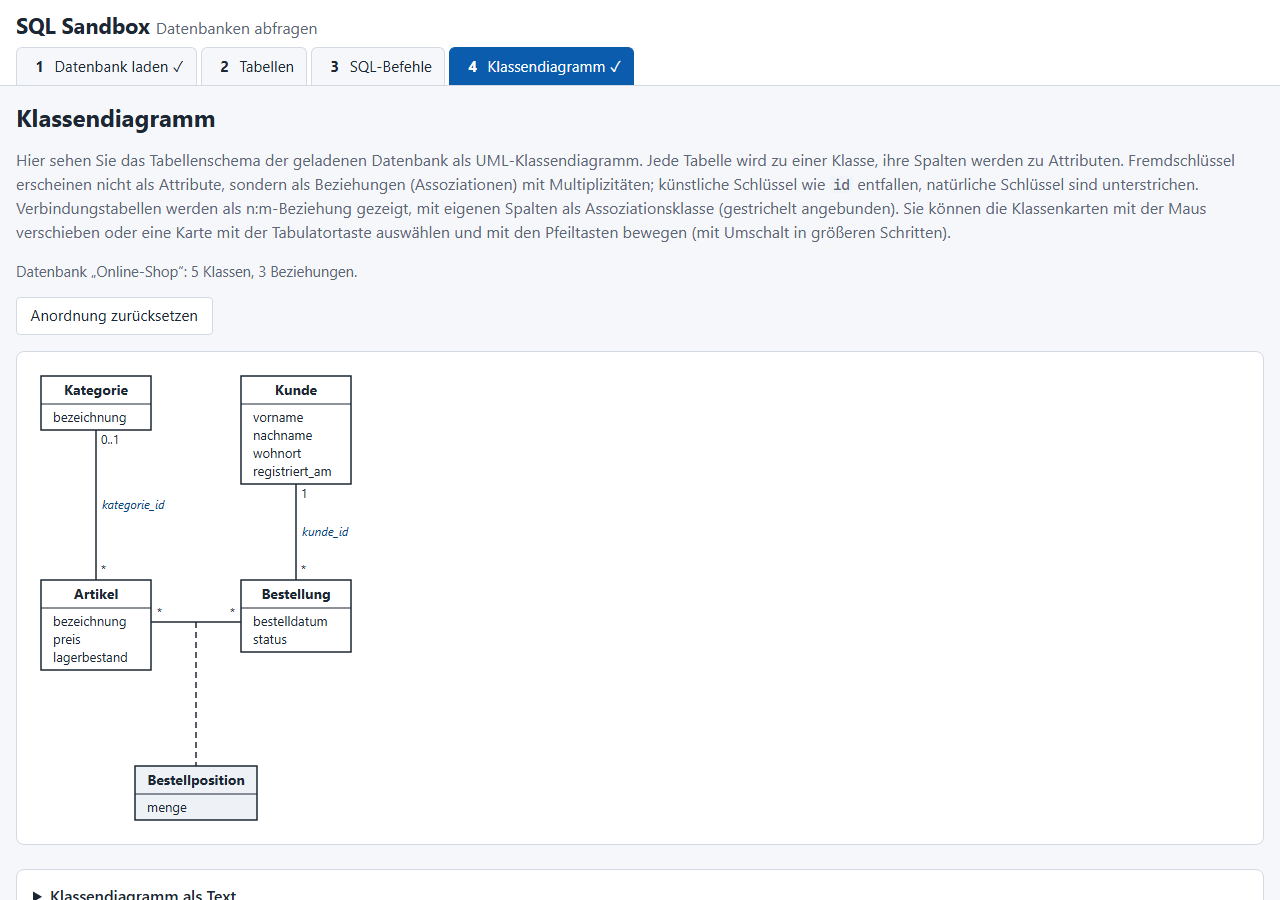
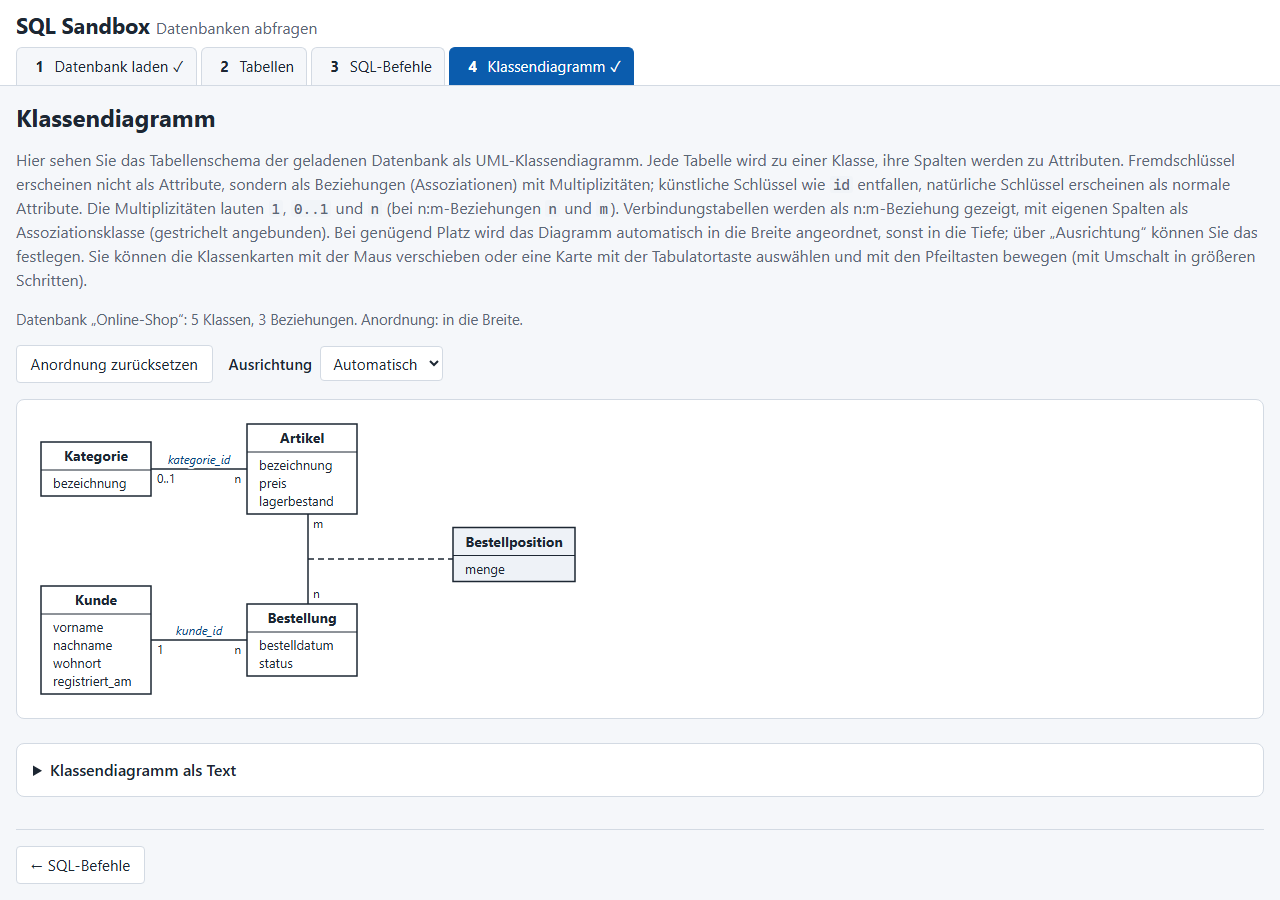
feat(sql-simulator): class diagram layout across, n/m multiplicities
- Keys are no longer marked or underlined; natural keys appear as
  plain attributes
- Multiplicities use n instead of *, n:m relations show n and m
- Layout can be laid out across (parents left) or in depth (parents
  top); automatic choice uses the wide layout when it fits, plus a
  selector (automatic / across / in depth)
- Across: channels sized for their labels, bends near the parent side
  so labels stay readable; multiplicities below horizontal lines

diff --git a/SQL simulator/src/js/pages/diagram.js b/SQL simulator/src/js/pages/diagram.js
@@ -8,6 +8,8 @@
  * Maus (bzw. per Touch) und mit den Pfeiltasten verschieben; die betroffenen Linien werden
  * dabei rechtwinklig neu geführt. „Anordnung zurücksetzen“ stellt das Ebenenlayout wieder her.
  * Beim Laden einer anderen Datenbank wird neu angeordnet.
+ * Ausrichtung: automatisch (in die Breite, wenn es in den Bereich passt, sonst in die Tiefe)
+ * oder fest gewählt.
  *
  * Sicherheit:
  *   Alle Namen werden über dom.svg/dom.el als Textknoten eingefügt (nach cleanCellText).
@@ -38,6 +40,8 @@
   let signature = '';
   /** Aktueller Zustand: Modell, Karten, Linien. */
   let view = null;
+  /** Gewählte Ausrichtung: 'auto', 'horizontal' (in die Breite) oder 'vertical' (in die Tiefe). */
+  let direction = 'auto';
 
   /** Kürzt lange Namen für die Anzeige. */
   function shorten(text) {
@@ -95,7 +99,7 @@
       const attrs = cls.attributes.map((a) => {
         const full = ns.text.cleanCellText(a.name);
         const text = shorten(full);
-        return { text, full, key: a.key, w: m.width(text, 'uml-attr') };
+        return { text, full, w: m.width(text, 'uml-attr') };
       });
       const nameW = m.width(name, 'uml-name');
       const w = Math.ceil(Math.max(MIN_W, nameW + 2 * PAD_X, ...attrs.map((a) => a.w + 2 * PAD_X)));
@@ -129,7 +133,8 @@
     if (dy !== 0) {
       return { x: p.x + 5, y: p.y + (dy > 0 ? 14 : -6), anchor: 'start' };
     }
-    return { x: p.x + (dx > 0 ? 6 : -6), y: p.y - 5, anchor: dx > 0 ? 'start' : 'end' };
+    // Waagerecht: unter der Linie, damit der Bezeichner darüber Platz hat.
+    return { x: p.x + (dx > 0 ? 6 : -6), y: p.y + 14, anchor: dx > 0 ? 'start' : 'end' };
   }
 
   /** Position des Beziehungsbezeichners am längsten Abschnitt. */
@@ -273,7 +278,7 @@
 
   /** Erzeugt die SVG-Gruppe einer Klassenkarte. */
   function cardElement(card) {
-    const attrList = card.attrs.map((a) => a.full + (a.key ? ' (Schlüssel)' : '')).join(', ');
+    const attrList = card.attrs.map((a) => a.full).join(', ');
     const label = (card.cls.associationClass ? 'Assoziationsklasse ' : 'Klasse ') + card.fullName +
       (card.attrs.length ? ', Attribute: ' + attrList : ', ohne Attribute');
     const children = [
@@ -284,9 +289,6 @@
     card.attrs.forEach((a, i) => {
       const y = NAME_H + 4 + (i + 1) * ATTR_H - 4;
       children.push(dom.svg('text', { class: 'uml-attr', x: String(PAD_X), y: String(y) }, a.text));
-      if (a.key) {
-        children.push(dom.svg('line', { class: 'uml-key', x1: String(PAD_X), y1: String(y + 3), x2: String(PAD_X + a.w), y2: String(y + 3) }));
-      }
     });
     const truncated = card.name !== card.fullName || card.attrs.some((a) => a.text !== a.full);
     if (truncated) {
@@ -349,11 +351,22 @@
     resize();
   }
 
-  /** Berechnet die Standardanordnung. */
+  /**
+   * Berechnet die Standardanordnung. Automatisch: in die Breite, wenn das Diagramm so in
+   * den verfügbaren Bereich passt, sonst in die Tiefe.
+   */
   function arrange() {
     const nodes = Array.from(view.cards.values()).map((c) => ({ id: c.cls.id, w: c.w, h: c.h }));
     const edges = view.model.associations.map((a) => ({ id: a.id, from: a.from, to: a.to, kind: a.kind, assocClass: a.assocClass, labelW: a.labelW }));
-    const result = ns.uml.layout(nodes, edges);
+    let result;
+    if (direction === 'auto') {
+      const wide = ns.uml.layout(nodes, edges, { direction: 'horizontal' });
+      const available = ui.canvas.clientWidth - 2;
+      result = available > 0 && wide.width <= available ? wide : ns.uml.layout(nodes, edges, { direction: 'vertical' });
+    } else {
+      result = ns.uml.layout(nodes, edges, { direction });
+    }
+    view.direction = result.direction;
     for (const card of view.cards.values()) {
       const p = result.positions.get(card.cls.id);
       card.x = p.x;
@@ -369,14 +382,14 @@
     const nameOf = new Map(model.classes.map((c) => [c.id, ns.text.cleanCellText(c.name)]));
     const classItems = model.classes.map((c) => dom.el('li', null, [
       dom.el('strong', null, nameOf.get(c.id)), c.associationClass ? ' (Assoziationsklasse)' : '', ': ',
-      c.attributes.length ? c.attributes.map((a) => ns.text.cleanCellText(a.name) + (a.key ? ' (Schlüssel)' : '')).join(', ') : 'keine Attribute'
+      c.attributes.length ? c.attributes.map((a) => ns.text.cleanCellText(a.name)).join(', ') : 'keine Attribute'
     ]));
     const assocItems = model.associations.map((a) => {
       let textLine;
       if (a.kind === 'fk') {
         textLine = nameOf.get(a.to) + ' ' + a.toMult + ' – ' + a.fromMult + ' ' + nameOf.get(a.from) + ' (' + ns.text.cleanCellText(a.label) + ')';
       } else {
-        textLine = nameOf.get(a.from) + ' * – * ' + nameOf.get(a.to) +
+        textLine = nameOf.get(a.from) + ' ' + a.fromMult + ' – ' + a.toMult + ' ' + nameOf.get(a.to) +
           (a.assocClass ? ' mit der Assoziationsklasse ' + nameOf.get(a.assocClass) : ' (' + ns.text.cleanCellText(a.label) + ')');
       }
       return dom.el('li', null, textLine);
@@ -431,16 +444,15 @@
       model.classes.map((c) => [c.id, c.name, c.attributes]),
       model.associations.map((a) => [a.id, a.from, a.to, a.fromMult, a.toMult, a.label, a.assocClass])
     ]);
-    if (view && sig === signature && !relayout) {
-      // Schema unverändert (z. B. nach INSERT): Anordnung und verschobene Karten bleiben erhalten.
-      draw();
-      return;
+    if (!(view && sig === signature && !relayout)) {
+      view = { model, cards: prepareCards(model) };
+      arrange();
+      signature = sig;
+      relayout = false;
     }
-    view = { model, cards: prepareCards(model) };
-    arrange();
-    signature = sig;
-    relayout = false;
+    // Bei unverändertem Schema (z. B. nach INSERT) bleiben Anordnung und verschobene Karten erhalten.
     draw();
+    ui.info.textContent += ' Anordnung: ' + (view.direction === 'horizontal' ? 'in die Breite' : 'in die Tiefe') + '.';
   }
 
   ns.pages.diagram = {
@@ -451,10 +463,16 @@
       ui.body = dom.byId('diagram-body');
       ui.canvas = dom.byId('diagram-canvas');
       ui.text = dom.byId('diagram-text');
-      dom.byId('btn-diagram-reset').addEventListener('click', () => {
+      const rebuild = () => {
         relayout = true;
         stale = false;
         build();
+      };
+      dom.byId('btn-diagram-reset').addEventListener('click', rebuild);
+      const select = dom.byId('diagram-direction');
+      select.addEventListener('change', () => {
+        direction = ['horizontal', 'vertical'].includes(select.value) ? select.value : 'auto';
+        rebuild();
       });
     },
     render() {

diff --git a/SQL simulator/src/js/uml-layout.js b/SQL simulator/src/js/uml-layout.js
@@ -109,12 +109,48 @@
   /**
    * Berechnet das Layout.
    *
+   * „In die Tiefe“ (vertical): referenzierte Klassen oben, abhängige darunter.
+   * „In die Breite“ (horizontal): referenzierte Klassen links, abhängige rechts. Dafür wird
+   * das Layout mit vertauschten Kartenmaßen berechnet und anschließend gespiegelt (x ↔ y);
+   * rechtwinklige Linien bleiben dabei rechtwinklig.
+   *
    * @param {Array<{id:string, w:number, h:number}>} nodes - Karten (Klassen und Assoziationsklassen).
    * @param {Array<{id:string, from:string, to:string, kind:string, assocClass:string|null, labelW:number}>} edges - Beziehungen.
-   * @returns {{positions:Map<string,{x:number,y:number}>, routes:Map<string,Array>, connectors:Map<string,Array>, width:number, height:number}}
+   * @param {{direction:string}} [options] - direction: 'vertical' (Standard) oder 'horizontal'.
+   * @returns {{positions:Map<string,{x:number,y:number}>, routes:Map<string,Array>, connectors:Map<string,Array>, width:number, height:number, direction:string}}
    *   Linke obere Ecke je Karte, Eckpunkte je Beziehung (vom from- zum to-Ende) und je Anbindung einer Assoziationsklasse.
    */
-  function layout(nodes, edges) {
+  function layout(nodes, edges, options) {
+    if (!(options && options.direction === 'horizontal')) {
+      return Object.assign(layoutCore(nodes, edges, { minChannel: MIN_CHANNEL, labelGap: true }), { direction: 'vertical' });
+    }
+    // Bezeichner stehen auf den waagerechten Abschnitten zwischen den Spalten: Kanäle so breit
+    // wie nötig, Knicke nahe der linken Spalte (das lange Stück trägt den Bezeichner).
+    const t = layoutCore(nodes.map((n) => ({ id: n.id, w: n.h, h: n.w })), edges,
+      { minChannel: MIN_CHANNEL, labelGap: false, channelLabels: true });
+    const swap = (p) => pt(p.y, p.x);
+    const mapAll = (m) => new Map(Array.from(m, ([k, pts]) => [k, pts.map(swap)]));
+    return {
+      positions: new Map(Array.from(t.positions, ([k, p]) => [k, swap(p)])),
+      routes: mapAll(t.routes),
+      connectors: mapAll(t.connectors),
+      width: t.height,
+      height: t.width,
+      direction: 'horizontal'
+    };
+  }
+
+  /**
+   * Kern des Layouts (immer „in die Tiefe“ gerechnet).
+   *
+   * @param {Array} nodes - Karten.
+   * @param {Array} edges - Beziehungen.
+   * @param {{minChannel:number, labelGap:boolean, channelLabels:boolean}} opts - Mindesthöhe der
+   *   Kanäle; Platz für Bezeichner zwischen n:m-Nachbarn derselben Ebene; Bezeichner laufen
+   *   entlang der Kanäle (nach dem Spiegeln waagerecht), Spuren dann am Kanalanfang.
+   * @returns {Object} Ergebnis wie {@link layout} (ohne direction).
+   */
+  function layoutCore(nodes, edges, opts) {
     const nodeById = new Map(nodes.map((n) => [n.id, n]));
     const order = new Map(nodes.map((n, i) => [n.id, i]));
 
@@ -363,7 +399,7 @@
       if (Math.abs(pos.get(a) - pos.get(b)) === 1) {
         info.type = 'adjacent';
         const left = pos.get(a) < pos.get(b) ? a : b;
-        adjacentGap.set(left, Math.max(adjacentGap.get(left) || GAP_NM, (e.labelW || 0) + 40));
+        adjacentGap.set(left, Math.max(adjacentGap.get(left) || GAP_NM, opts.labelGap ? (e.labelW || 0) + 40 : 0));
       } else {
         info.type = 'over';
       }
@@ -539,6 +575,19 @@
       }
     }
     const trackCount = channels.map((pieces) => assignTracks(pieces));
+    // Platzbedarf der Bezeichner je Kanal (nur wenn sie entlang des Kanals stehen).
+    const labelNeed = new Array(layerCount + 1).fill(0);
+    if (opts.channelLabels) {
+      for (const e of edges) {
+        const info = routeInfo.get(e.id);
+        if (info.type === 'inter' && info.chain.length === 2 && e.labelW) {
+          const step = info.steps[0];
+          const t = trackCount[step.channel];
+          const need = e.labelW + 30 + (step.piece ? PAD + Math.max(0, t - 1) * TRACK + 10 : 0);
+          labelNeed[step.channel] = Math.max(labelNeed[step.channel], need);
+        }
+      }
+    }
 
     // ---- 7) Senkrechte Lage ---------------------------------------------
     const rowTop = [];
@@ -555,7 +604,7 @@
       } else if (l === layerCount) {
         h = 0;
       } else {
-        h = Math.max(MIN_CHANNEL, 2 * PAD + Math.max(0, t - 1) * TRACK);
+        h = Math.max(opts.minChannel, labelNeed[l], 2 * PAD + Math.max(0, t - 1) * TRACK);
       }
       chTop[l] = y;
       chH[l] = h;
@@ -568,6 +617,9 @@
     const height = y + MARGIN;
     const trackY = (l, piece) => {
       const t = trackCount[l];
+      if (opts.channelLabels && l > 0) {
+        return chTop[l] + PAD + piece.track * TRACK;
+      }
       return chTop[l] + (chH[l] - (t - 1) * TRACK) / 2 + piece.track * TRACK;
     };
     const top = (it) => rowTop[it.layer];

diff --git a/SQL simulator/src/js/uml-model.js b/SQL simulator/src/js/uml-model.js
@@ -8,14 +8,14 @@
  *   - Attribute sind die Spalten, ganz klein geschrieben (Adresse → adresse), ohne Datentyp.
  *     Es entfallen alle Spalten von Fremdschlüsseln und künstliche Primärschlüssel
  *     (AUTO_INCREMENT oder „id“ als eigener Namensteil: id, kunde_id, id_kunde, KundenID).
- *     Natürliche Primärschlüssel werden als Schlüssel markiert.
+ *     Natürliche Primärschlüssel erscheinen als normale Attribute (ohne Markierung).
  *   - Jeder Fremdschlüssel (Tabelle A → Tabelle B) wird eine Assoziation:
  *       Seite B: 1 (alle Spalten NOT NULL) bzw. 0..1;
- *       Seite A: 0..1, wenn die Spalten eindeutig sind (1:1), sonst *.
+ *       Seite A: 0..1, wenn die Spalten eindeutig sind (1:1), sonst n.
  *     Bezeichner: Name aus CONSTRAINT name, sonst die Spalte(n) des Fremdschlüssels.
  *   - Verbindungstabellen (genau zwei Fremdschlüssel auf zwei verschiedene Tabellen, alle
  *     Spalten NOT NULL, nicht eindeutig, von keiner Tabelle referenziert, kein natürlicher
- *     Schlüssel) werden zur n:m-Assoziation (* zu *). Hat die Tabelle eigene
+ *     Schlüssel) werden zur n:m-Assoziation (n zu m). Hat die Tabelle eigene
  *     Attribute, wird sie Assoziationsklasse, sonst trägt die Linie den Tabellennamen.
  *   - Fremdschlüssel auf nicht vorhandene Tabellen oder Spalten ergeben Hinweise.
  *
@@ -105,7 +105,7 @@
    *
    * @param {Object} db - Datenbank.
    * @returns {{classes:Array<Object>, associations:Array<Object>, warnings:Array<string>}} Modell.
-   *   Klasse: {id, table, name, attributes:[{name, key}], associationClass}.
+   *   Klasse: {id, table, name, attributes:[{name}], associationClass}.
    *   Assoziation: {id, kind:'fk'|'nm', from, to, fromMult, toMult, label, assocClass, parallelIndex, parallelCount}
    *   (bei 'fk' ist from die Tabelle mit dem Fremdschlüssel, to die referenzierte Tabelle).
    */
@@ -168,7 +168,7 @@
         if (fkCols.has(idx) || isArtificialKey(table, idx)) {
           return;
         }
-        attrs.push({ name: attributeName(column.name), key: Boolean(table.primaryKey && table.primaryKey.includes(idx)) });
+        attrs.push({ name: attributeName(column.name) });
       });
       return attrs;
     }
@@ -225,7 +225,7 @@
         associations.push({
           id: 'a' + associations.length, kind: 'fk',
           from: classOf.get(table.key).id, to: classOf.get(r.target.key).id,
-          fromMult: isUniqueSet(table, r.fk.columns) ? '0..1' : '*',
+          fromMult: isUniqueSet(table, r.fk.columns) ? '0..1' : 'n',
           toMult: allNotNull ? '1' : '0..1',
           label: r.label, assocClass: null
         });
@@ -244,7 +244,7 @@
       associations.push({
         id: 'a' + associations.length, kind: 'nm',
         from: classOf.get(ra.target.key).id, to: classOf.get(rb.target.key).id,
-        fromMult: '*', toMult: '*',
+        fromMult: 'n', toMult: 'm',
         label: assocClass ? '' : table.name, assocClass, junction: table.name
       });
     }

diff --git a/SQL simulator/src/index.html b/SQL simulator/src/index.html
@@ -170,13 +170,19 @@ DROP VIEW teure_artikel;</pre>
          =================================================================== -->
     <section id="page-diagram" class="page" role="tabpanel" aria-labelledby="tab-diagram" hidden>
       <h2>Klassendiagramm</h2>
-      <p class="intro">Hier sehen Sie das Tabellenschema der geladenen Datenbank als UML-Klassendiagramm. Jede Tabelle wird zu einer Klasse, ihre Spalten werden zu Attributen. Fremdschlüssel erscheinen nicht als Attribute, sondern als Beziehungen (Assoziationen) mit Multiplizitäten; künstliche Schlüssel wie <code>id</code> entfallen, natürliche Schlüssel sind unterstrichen. Verbindungstabellen werden als n:m-Beziehung gezeigt, mit eigenen Spalten als Assoziationsklasse (gestrichelt angebunden). Sie können die Klassenkarten mit der Maus verschieben oder eine Karte mit der Tabulatortaste auswählen und mit den Pfeiltasten bewegen (mit Umschalt in größeren Schritten).</p>
+      <p class="intro">Hier sehen Sie das Tabellenschema der geladenen Datenbank als UML-Klassendiagramm. Jede Tabelle wird zu einer Klasse, ihre Spalten werden zu Attributen. Fremdschlüssel erscheinen nicht als Attribute, sondern als Beziehungen (Assoziationen) mit Multiplizitäten; künstliche Schlüssel wie <code>id</code> entfallen, natürliche Schlüssel erscheinen als normale Attribute. Die Multiplizitäten lauten <code>1</code>, <code>0..1</code> und <code>n</code> (bei n:m-Beziehungen <code>n</code> und <code>m</code>). Verbindungstabellen werden als n:m-Beziehung gezeigt, mit eigenen Spalten als Assoziationsklasse (gestrichelt angebunden). Bei genügend Platz wird das Diagramm automatisch in die Breite angeordnet, sonst in die Tiefe; über „Ausrichtung“ können Sie das festlegen. Sie können die Klassenkarten mit der Maus verschieben oder eine Karte mit der Tabulatortaste auswählen und mit den Pfeiltasten bewegen (mit Umschalt in größeren Schritten).</p>
       <div id="diagram-notice" class="notice" hidden></div>
       <p id="diagram-info" class="hint"></p>
       <div id="diagram-warnings"></div>
       <div id="diagram-body" hidden>
         <div class="button-row">
           <button type="button" id="btn-diagram-reset" class="btn">Anordnung zurücksetzen</button>
+          <label for="diagram-direction" class="inline-label">Ausrichtung</label>
+          <select id="diagram-direction" class="select">
+            <option value="auto" selected>Automatisch</option>
+            <option value="horizontal">In die Breite</option>
+            <option value="vertical">In die Tiefe</option>
+          </select>
         </div>
         <div id="diagram-canvas" class="diagram-wrap" role="region" tabindex="0" aria-label="Klassendiagramm"></div>
         <details id="diagram-text" class="card reference"></details>

diff --git a/SQL simulator/src/css/style.css b/SQL simulator/src/css/style.css
@@ -284,7 +284,22 @@ input[type="file"] {
   display: none;
 }
 
+.select {
+  font: inherit;
+  font-size: 0.95rem;
+  padding: 0.35rem 0.5rem;
+  border: 1px solid var(--border);
+  border-radius: 4px;
+  background: #fff;
+  color: var(--text);
+}
+
+.inline-label {
+  margin-left: 0.5rem;
+}
+
 input:focus-visible,
+select:focus-visible,
 textarea:focus-visible,
 button:focus-visible,
 summary:focus-visible,
@@ -622,11 +637,6 @@ body > .status {
 .uml-attr {
   font-size: 13px;
   fill: var(--text);
-}
-
-.uml-key {
-  stroke: var(--text);
-  stroke-width: 1;
 }
 
 .uml-line {

diff --git a/SQL simulator/README.md b/SQL simulator/README.md
@@ -10,7 +10,7 @@ Das Paket läuft vollständig im Browser. Die SQL-Engine (Lexer, Parser, Ausfüh
 | 1 Datenbank laden | Eine von vier Beispieldatenbanken wählen (Schule, Bibliothek, Online-Shop, Sportverein) oder eine eigene SQL-Datei hochladen (`DROP TABLE`, `CREATE TABLE` auch mit `CHECK`, `INSERT INTO` auch mit `SELECT`/`WITH`, `CREATE VIEW`) |
 | 2 Tabellen | Aufbau (Spalten, Datentypen, Primär-/Fremdschlüssel, NOT NULL, CHECK-Bedingungen) und Inhalt aller Tabellen; je Tabelle sind etwa fünf Datensätze sichtbar, der Rest durch Scrollen. Unter jeder Tabelle lässt sich der `CREATE TABLE`-Befehl aufklappen (anfangs zugeklappt). Sichten (Views) stehen in einem eigenen Abschnitt mit ihrem aktuellen Ergebnis und dem aufklappbaren `CREATE VIEW`-Befehl |
 | 3 SQL-Befehle | Eingabemaske (anfangs leer) mit „Ausführen“ (auch Strg + Enter) für Abfragen, Datenänderungen und `CREATE/DROP VIEW`; Fehlermeldungen erscheinen unter der Eingabe mit Zeile, Spalte, markierter Fehlerstelle und Hinweisen wie „Meinten Sie …?“; Ergebnistabellen haben Platz für zehn Zeilen, weitere durch Scrollen. Hinweise (ohne Abbruch) bei vermutlich vergessener Verknüpfungsbedingung, bei Texten in falscher Groß-/Kleinschreibung und bei kleingeschriebenen Schlüsselwörtern. Kurzreferenz der unterstützten Befehle |
-| 4 Klassendiagramm | Das Tabellenschema als UML-Klassendiagramm: Klassen mit Attributen, Beziehungen als Assoziationen mit Multiplizitäten, Verbindungstabellen als n:m-Beziehung (mit eigenen Spalten als Assoziationsklasse). Übersichtliche Anordnung mit rechtwinkligen Linien; Klassenkarten lassen sich mit Maus, Touch und Tastatur verschieben. Hinweise bei Fremdschlüsseln auf nicht vorhandene Tabellen. Textfassung zum Aufklappen |
+| 4 Klassendiagramm | Das Tabellenschema als UML-Klassendiagramm: Klassen mit Attributen, Beziehungen als Assoziationen mit Multiplizitäten (`1`, `0..1`, `n`, bei n:m `n` und `m`), Verbindungstabellen als n:m-Beziehung (mit eigenen Spalten als Assoziationsklasse). Übersichtliche Anordnung mit rechtwinkligen Linien, bei genügend Platz in die Breite, sonst in die Tiefe (auch fest wählbar); Klassenkarten lassen sich mit Maus, Touch und Tastatur verschieben. Hinweise bei Fremdschlüsseln auf nicht vorhandene Tabellen. Textfassung zum Aufklappen |
 
 Zwischen den Seiten kann jederzeit gewechselt werden. Eingaben, Ergebnisse und die Datenbank bleiben dabei erhalten.
 Änderungen durch `INSERT`, `UPDATE` und `DELETE` sind sofort auf Seite 2 sichtbar. „Datenbank zurücksetzen“ stellt den Stand nach dem Laden wieder her. Wird eine andere Datenbank geladen, zeigt Seite 4 sofort deren Klassendiagramm.
@@ -23,18 +23,19 @@ Das Diagramm wird aus den Tabellendefinitionen abgeleitet:
 - **Attribute:** die Spalten, ganz klein geschrieben (`Adresse` → `adresse`), ohne Datentyp und ohne Methoden.
   - Spalten von Fremdschlüsseln erscheinen nicht; sie werden durch die Beziehung ausgedrückt.
   - Künstliche Primärschlüssel entfallen: Spalten mit `AUTO_INCREMENT` und Spalten, deren Name „id“ als eigenen Namensteil enthält (`id`, `ID`, `kunde_id`, `id_kunde`, `KundenID`, `kundeId`). Wörter wie `Video` zählen nicht.
-  - Natürliche Primärschlüssel (z. B. `Kuerzel CHAR(3) PRIMARY KEY`) werden angezeigt und unterstrichen.
+  - Natürliche Primärschlüssel (z. B. `Kuerzel CHAR(3) PRIMARY KEY`) erscheinen als normale Attribute. Schlüssel werden nicht markiert.
 - **Beziehungen:** Jeder Fremdschlüssel von Tabelle A auf Tabelle B wird eine Assoziation.
   - Multiplizität bei B: `1`, wenn alle Spalten des Fremdschlüssels `NOT NULL` sind, sonst `0..1`.
-  - Multiplizität bei A: `0..1`, wenn die Spalten eindeutig sind (`UNIQUE` oder Primärschlüssel, also 1:1), sonst `*`.
+  - Multiplizität bei A: `0..1`, wenn die Spalten eindeutig sind (`UNIQUE` oder Primärschlüssel, also 1:1), sonst `n`.
   - Bezeichner ist der Name aus `CONSTRAINT name FOREIGN KEY …`, sonst die Spalte des Fremdschlüssels (z. B. `schule_id`).
   - Ein Selbstbezug (z. B. `vorgesetzter_id`) erscheint als Schleife. Mehrere Fremdschlüssel zwischen denselben Tabellen (z. B. `heim_id` und `gast_id`) laufen parallel.
-- **Verbindungstabellen** werden als n:m-Beziehung (`*` zu `*`) dargestellt. Als Verbindungstabelle gilt eine Tabelle mit genau zwei Fremdschlüsseln auf zwei verschiedene Tabellen, deren Fremdschlüssel-Spalten `NOT NULL` und für sich nicht eindeutig sind, auf die kein anderer Fremdschlüssel verweist und die keinen natürlichen Primärschlüssel hat.
+- **Verbindungstabellen** werden als n:m-Beziehung (`n` zu `m`) dargestellt. Als Verbindungstabelle gilt eine Tabelle mit genau zwei Fremdschlüsseln auf zwei verschiedene Tabellen, deren Fremdschlüssel-Spalten `NOT NULL` und für sich nicht eindeutig sind, auf die kein anderer Fremdschlüssel verweist und die keinen natürlichen Primärschlüssel hat.
   - Mit eigenen Spalten (z. B. `Menge` in `bestellposition`) wird sie zur **Assoziationsklasse**, gestrichelt an die n:m-Linie angebunden.
   - Ohne eigene Spalten trägt die Linie den Tabellennamen.
 - **Hinweise** erscheinen, wenn ein Fremdschlüssel auf eine Tabelle verweist, die es nicht gibt (die Beziehung fehlt dann), auf eine Sicht oder auf eine nicht vorhandene Spalte, oder wenn sich die Schreibung unterscheidet.
 - **Anordnung:**
-  - Referenzierte Klassen stehen oben, abhängige darunter (Ebenenlayout). Die Reihenfolge wird so gewählt, dass sich möglichst wenige Linien kreuzen.
+  - Ebenenlayout: In die Breite stehen referenzierte Klassen links und abhängige rechts davon, in die Tiefe stehen referenzierte Klassen oben und abhängige darunter. Die Reihenfolge wird so gewählt, dass sich möglichst wenige Linien kreuzen.
+  - **Ausrichtung:** „Automatisch“ (Standard) ordnet in die Breite an, wenn das Diagramm so in den verfügbaren Bereich passt, sonst in die Tiefe. „In die Breite“ und „In die Tiefe“ legen die Ausrichtung fest. Gewählt wird beim Laden, beim Zurücksetzen und beim Ändern der Auswahl, nicht bei jeder Änderung der Fenstergröße; verschobene Karten bleiben so erhalten.
   - Alle Linien bestehen nur aus waagerechten und senkrechten Abschnitten.
   - Die Karten lassen sich mit Maus oder Touch verschieben, oder nach Auswahl mit der Tabulatortaste mit den Pfeiltasten (mit Umschalt in größeren Schritten). Die Linien werden dabei rechtwinklig neu geführt.
   - „Anordnung zurücksetzen“ stellt die Standardanordnung wieder her. Datenänderungen auf Seite 3 lassen die Anordnung unverändert.
@@ -228,7 +229,7 @@ Vor jeder Veröffentlichung wird das Paket mit nicht veröffentlichten Entwicklu
 - `WITH`-Abfragen, `INSERT … SELECT` und Sichten (Anlegen, Ersetzen, Löschen, ungültige und zirkuläre Sichten, Import im Export-Stil);
 - erzeugter `CREATE TABLE`-Befehl: Er lässt sich für alle Beispieltabellen wieder einlesen und ergibt denselben Aufbau;
 - Import der Beispieldateien, eines Exports im phpMyAdmin-Stil und fehlerhafter Dateien; Grenzwerte;
-- Klassendiagramm: Ableitungsregeln (Namen, ausgeblendete und künstliche Schlüssel, Multiplizitäten, 1:1, Selbstbezug, parallele Beziehungen, Verbindungstabellen, Constraint-Namen, Hinweise) sowie das Layout aller Beispiele: keine überlappenden Karten, nur waagerechte und senkrechte Linien, keine Kreuzungen, keine Linie durch fremde Karten; 50 Tabellen; Verschieben mit Maus und Tastatur;
+- Klassendiagramm: Ableitungsregeln (Namen, ausgeblendete und künstliche Schlüssel, Multiplizitäten, 1:1, Selbstbezug, parallele Beziehungen, Verbindungstabellen, Constraint-Namen, Hinweise) sowie das Layout aller Beispiele in beiden Ausrichtungen: keine überlappenden Karten, nur waagerechte und senkrechte Linien, keine Kreuzungen, keine Linie durch fremde Karten; 50 Tabellen; Verschieben mit Maus und Tastatur;
 - präparierte Angriffe: HTML-/Skript-Einschleusung in Werten und Namen, `__proto__` als Name, Richtungszeichen, kartesisches Produkt, tiefe Verschachtelung, langsame `LIKE`-Muster, getarnte Binärdateien, übergroße Dateien, schneller Doppel-Upload;
 - Klickpfade aller Seiten: Erhalt der Eingaben beim Seitenwechsel, Höhe der Scrollbereiche (5 bzw. 10 Zeilen), Strg + Enter, Zurücksetzen, Tastaturbedienung;
 - SCORM-Meldungen;
